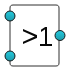
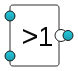
Updates

diff --git a/assets/shapes/index.js b/assets/shapes/index.js
@@ -280,18 +280,18 @@ var draw2d_circuit_gate_NOR = draw2d.SetFigure.extend({
 
    init:function(attr, setter, getter)
    {
-     this._super( $.extend({stroke:0, bgColor:null, width:60,height:61},attr), setter, getter);
+     this._super( $.extend({stroke:0, bgColor:null, width:68,height:61},attr), setter, getter);
      var port;
      // Port
-     port = this.createPort("input", new draw2d.layout.locator.XYRelPortLocator(8.333333333333334, 18.0327868852459));
+     port = this.createPort("input", new draw2d.layout.locator.XYRelPortLocator(7.352941176470589, 18.0327868852459));
      port.setConnectionDirection(3);
      port.setBackgroundColor("#1C9BAB");
      // Port
-     port = this.createPort("input", new draw2d.layout.locator.XYRelPortLocator(8.333333333333334, 83.60655737704919));
+     port = this.createPort("input", new draw2d.layout.locator.XYRelPortLocator(7.352941176470589, 83.60655737704919));
      port.setConnectionDirection(3);
      port.setBackgroundColor("#1C9BAB");
      // Port
-     port = this.createPort("output", new draw2d.layout.locator.XYRelPortLocator(91.66666666666667, 50));
+     port = this.createPort("output", new draw2d.layout.locator.XYRelPortLocator(92.64705882352942, 50));
      port.setConnectionDirection(1);
      port.setBackgroundColor("#1C9BAB");
      this.persistPorts=false;
@@ -300,7 +300,7 @@ var draw2d_circuit_gate_NOR = draw2d.SetFigure.extend({
    createShapeElement : function()
    {
       var shape = this._super();
-      this.originalWidth = 60;
+      this.originalWidth = 68;
       this.originalHeight= 61;
       return shape;
    },
@@ -310,7 +310,7 @@ var draw2d_circuit_gate_NOR = draw2d.SetFigure.extend({
        this.canvas.paper.setStart();
 
         // BoundingBox
-        shape = this.canvas.paper.path("M0,0 L60,0 L60,61 L0,61");
+        shape = this.canvas.paper.path("M0,0 L68,0 L68,61 L0,61");
         shape.attr({"stroke":"none","stroke-width":0,"fill":"none"});
         shape.data("name","BoundingBox");
         
@@ -323,6 +323,11 @@ var draw2d_circuit_gate_NOR = draw2d.SetFigure.extend({
         shape = this.canvas.paper.text(0,0,'>1');
         shape.attr({"x":17,"y":31,"text-anchor":"start","text":">1","font-family":"\"Arial\"","font-size":28,"stroke":"none","fill":"#080808","stroke-scale":true,"font-weight":"normal","stroke-width":0,"opacity":1});
         shape.data("name","Label");
+        
+        // Circle
+        shape = this.canvas.paper.ellipse();
+        shape.attr({"rx":6,"ry":6,"cx":56,"cy":30.5,"stroke":"#1B1B1B","stroke-width":1,"fill":"#FCFFFF","opacity":1});
+        shape.data("name","Circle");
         
 
         return this.canvas.paper.setFinish();
@@ -388,10 +393,10 @@ draw2d_circuit_gate_NOR = draw2d_circuit_gate_NOR.extend({
         var i2 = this.getInputPort(1);
         var o1 = this.getOutputPort(0);
         
-        o1.setValue(i1.getValue() | i2.getValue());
+        !o1.setValue(!(i1.getValue() | i2.getValue));
     }
 });
-draw2d_circuit_gate_NOR.logic="calculate: function () {\n    var i1 = this.getInputPort(0);\n    var i2 = this.getInputPort(1);\n    var o1 = this.getOutputPort(0);\n    o1.setValue(i1.getValue() | i2.getValue());\n}";
+draw2d_circuit_gate_NOR.logic="calculate: function () {\n    var i1 = this.getInputPort(0);\n    var i2 = this.getInputPort(1);\n    var o1 = this.getOutputPort(0);\n    !o1.setValue(!(i1.getValue() | i2.getValue));\n}";
 draw2d_circuit_gate_NOR.github="./shapes/org/draw2d/circuit/gate/NOR.shape";
 // Generated Code for the Draw2D touch HTML5 lib
 //                                                        

diff --git a/assets/shapes/draw2d_circuit_gate_NOR.js b/assets/shapes/draw2d_circuit_gate_NOR.js
@@ -11,18 +11,18 @@ var draw2d_circuit_gate_NOR = draw2d.SetFigure.extend({
 
    init:function(attr, setter, getter)
    {
-     this._super( $.extend({stroke:0, bgColor:null, width:60,height:61},attr), setter, getter);
+     this._super( $.extend({stroke:0, bgColor:null, width:68,height:61},attr), setter, getter);
      var port;
      // Port
-     port = this.createPort("input", new draw2d.layout.locator.XYRelPortLocator(8.333333333333334, 18.0327868852459));
+     port = this.createPort("input", new draw2d.layout.locator.XYRelPortLocator(7.352941176470589, 18.0327868852459));
      port.setConnectionDirection(3);
      port.setBackgroundColor("#1C9BAB");
      // Port
-     port = this.createPort("input", new draw2d.layout.locator.XYRelPortLocator(8.333333333333334, 83.60655737704919));
+     port = this.createPort("input", new draw2d.layout.locator.XYRelPortLocator(7.352941176470589, 83.60655737704919));
      port.setConnectionDirection(3);
      port.setBackgroundColor("#1C9BAB");
      // Port
-     port = this.createPort("output", new draw2d.layout.locator.XYRelPortLocator(91.66666666666667, 50));
+     port = this.createPort("output", new draw2d.layout.locator.XYRelPortLocator(92.64705882352942, 50));
      port.setConnectionDirection(1);
      port.setBackgroundColor("#1C9BAB");
      this.persistPorts=false;
@@ -31,7 +31,7 @@ var draw2d_circuit_gate_NOR = draw2d.SetFigure.extend({
    createShapeElement : function()
    {
       var shape = this._super();
-      this.originalWidth = 60;
+      this.originalWidth = 68;
       this.originalHeight= 61;
       return shape;
    },
@@ -41,7 +41,7 @@ var draw2d_circuit_gate_NOR = draw2d.SetFigure.extend({
        this.canvas.paper.setStart();
 
         // BoundingBox
-        shape = this.canvas.paper.path("M0,0 L60,0 L60,61 L0,61");
+        shape = this.canvas.paper.path("M0,0 L68,0 L68,61 L0,61");
         shape.attr({"stroke":"none","stroke-width":0,"fill":"none"});
         shape.data("name","BoundingBox");
         
@@ -54,6 +54,11 @@ var draw2d_circuit_gate_NOR = draw2d.SetFigure.extend({
         shape = this.canvas.paper.text(0,0,'>1');
         shape.attr({"x":17,"y":31,"text-anchor":"start","text":">1","font-family":"\"Arial\"","font-size":28,"stroke":"none","fill":"#080808","stroke-scale":true,"font-weight":"normal","stroke-width":0,"opacity":1});
         shape.data("name","Label");
+        
+        // Circle
+        shape = this.canvas.paper.ellipse();
+        shape.attr({"rx":6,"ry":6,"cx":56,"cy":30.5,"stroke":"#1B1B1B","stroke-width":1,"fill":"#FCFFFF","opacity":1});
+        shape.data("name","Circle");
         
 
         return this.canvas.paper.setFinish();
@@ -119,8 +124,8 @@ draw2d_circuit_gate_NOR = draw2d_circuit_gate_NOR.extend({
         var i2 = this.getInputPort(1);
         var o1 = this.getOutputPort(0);
         
-        o1.setValue(i1.getValue() | i2.getValue());
+        !o1.setValue(!(i1.getValue() | i2.getValue));
     }
 });
-draw2d_circuit_gate_NOR.logic="calculate: function () {\n    var i1 = this.getInputPort(0);\n    var i2 = this.getInputPort(1);\n    var o1 = this.getOutputPort(0);\n    o1.setValue(i1.getValue() | i2.getValue());\n}";
+draw2d_circuit_gate_NOR.logic="calculate: function () {\n    var i1 = this.getInputPort(0);\n    var i2 = this.getInputPort(1);\n    var o1 = this.getOutputPort(0);\n    !o1.setValue(!(i1.getValue() | i2.getValue));\n}";
 draw2d_circuit_gate_NOR.github="./shapes/org/draw2d/circuit/gate/NOR.shape";
